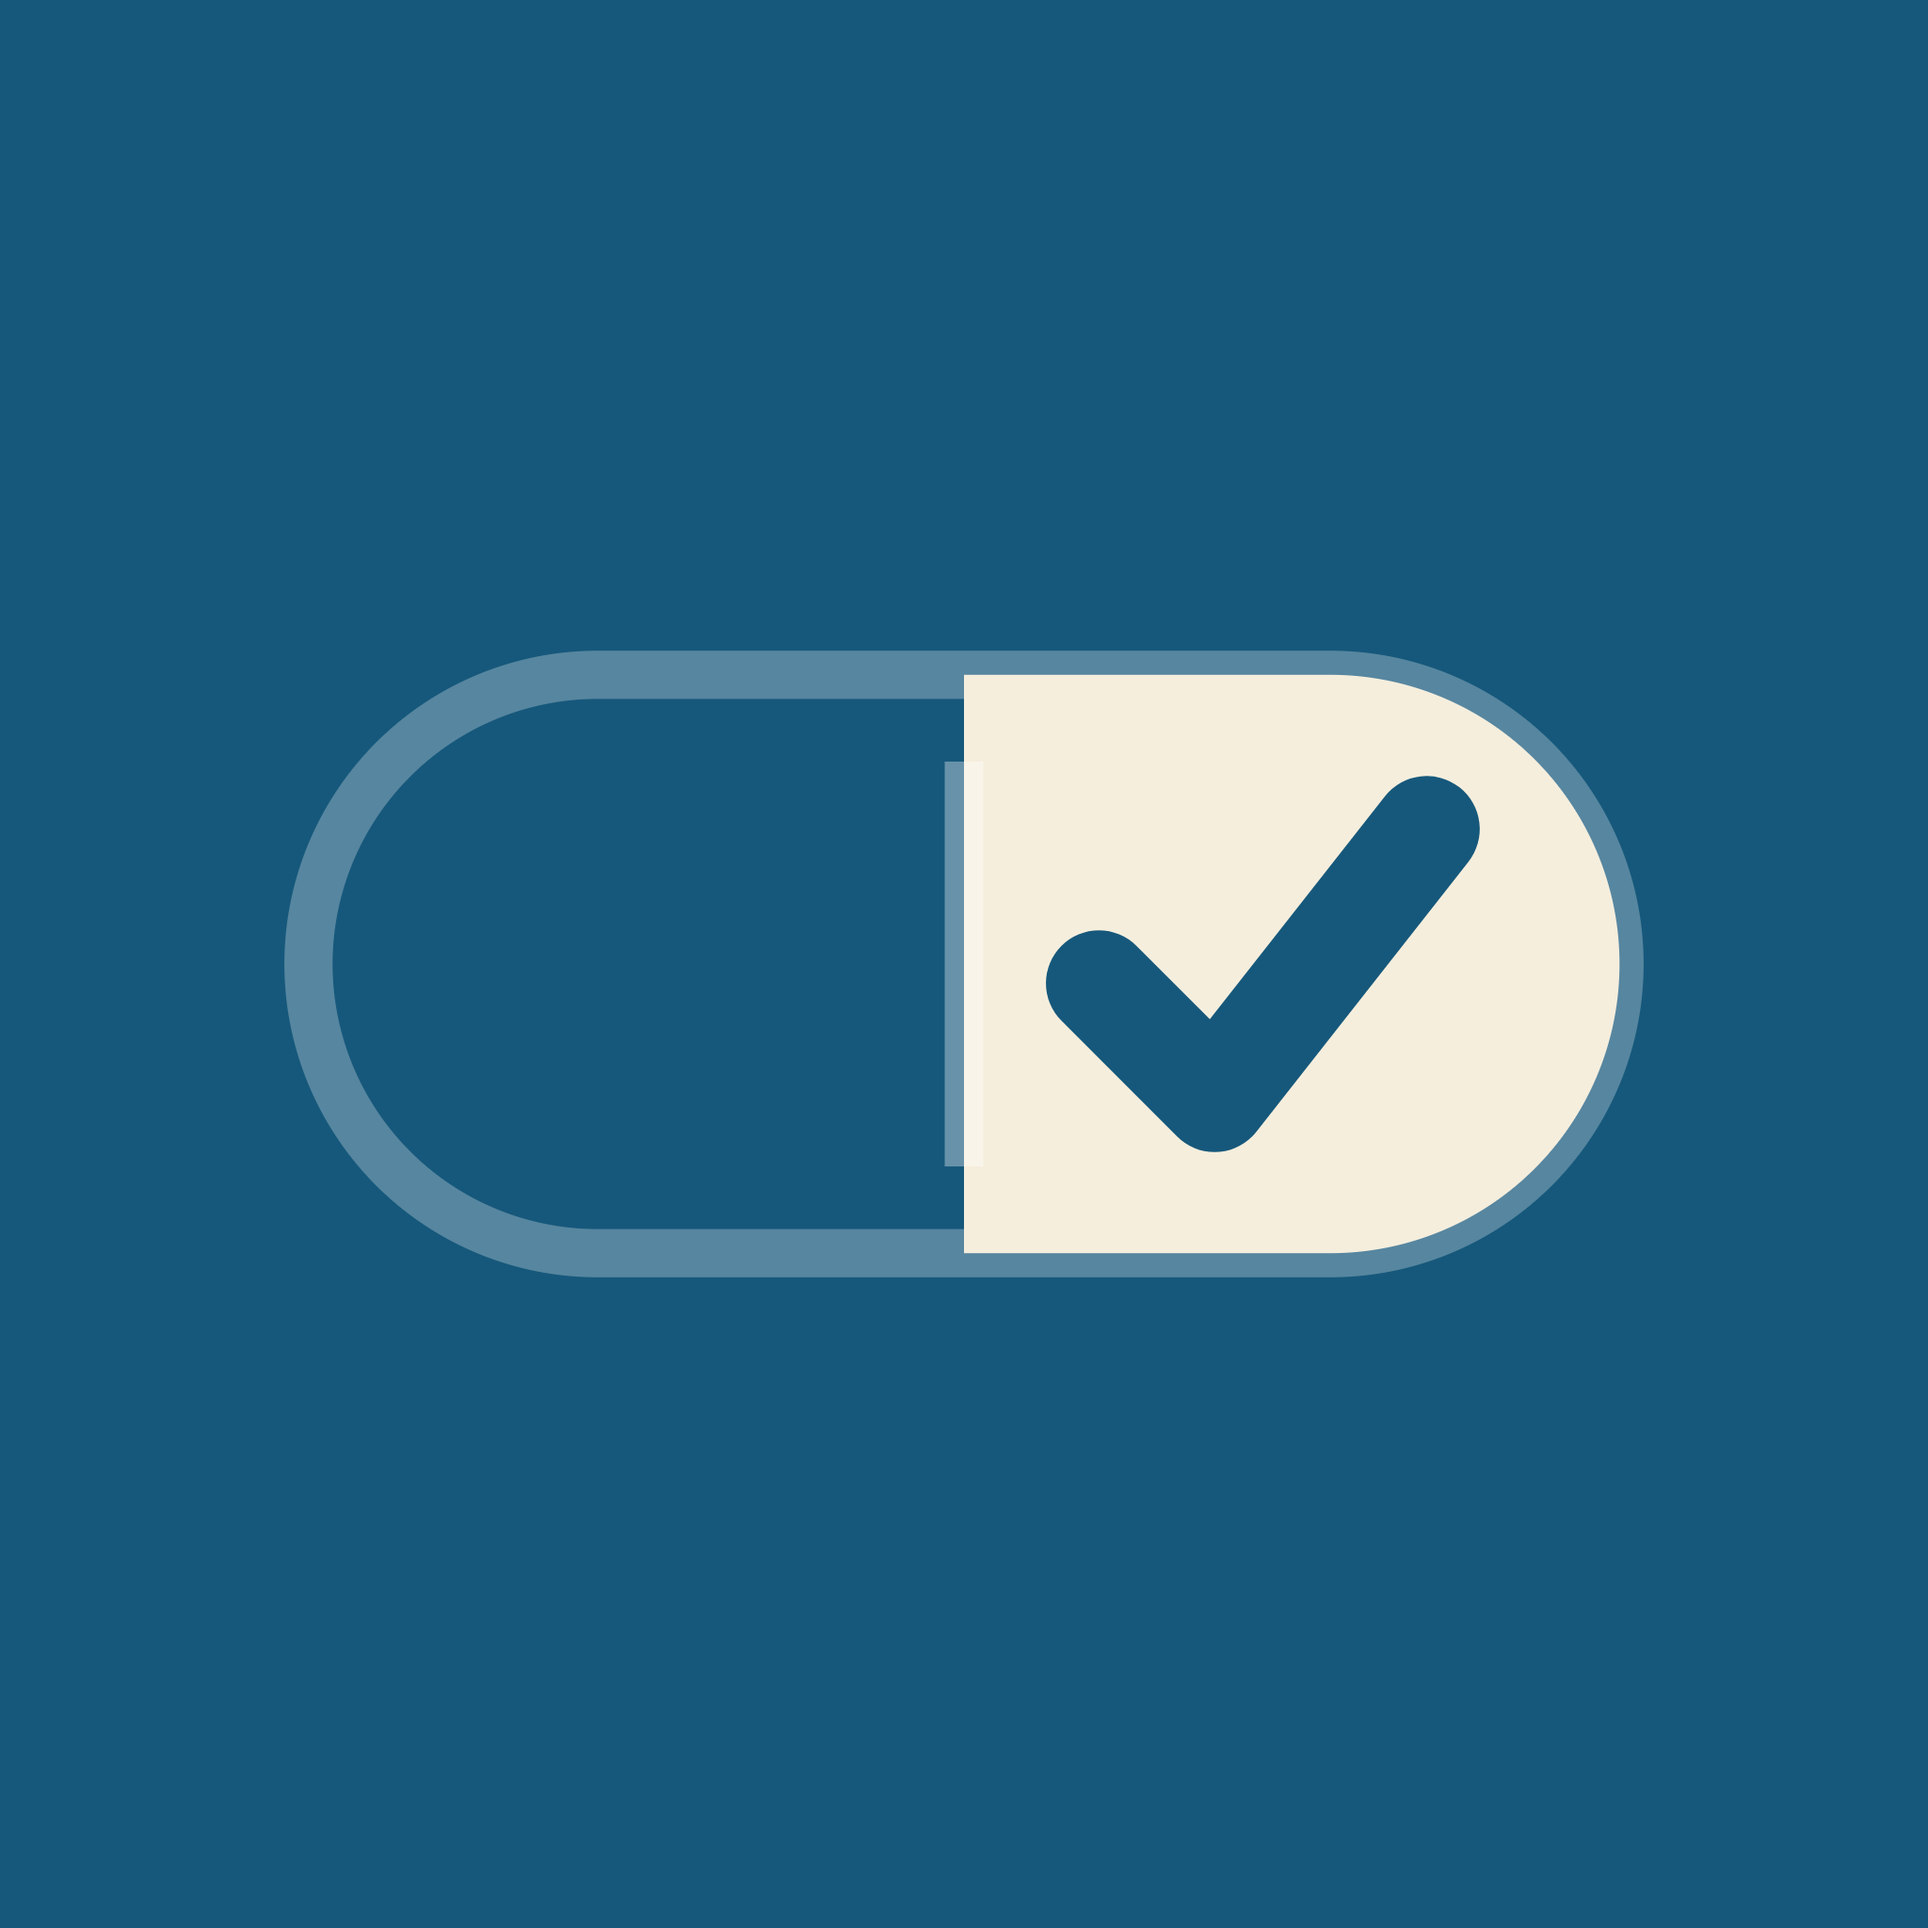
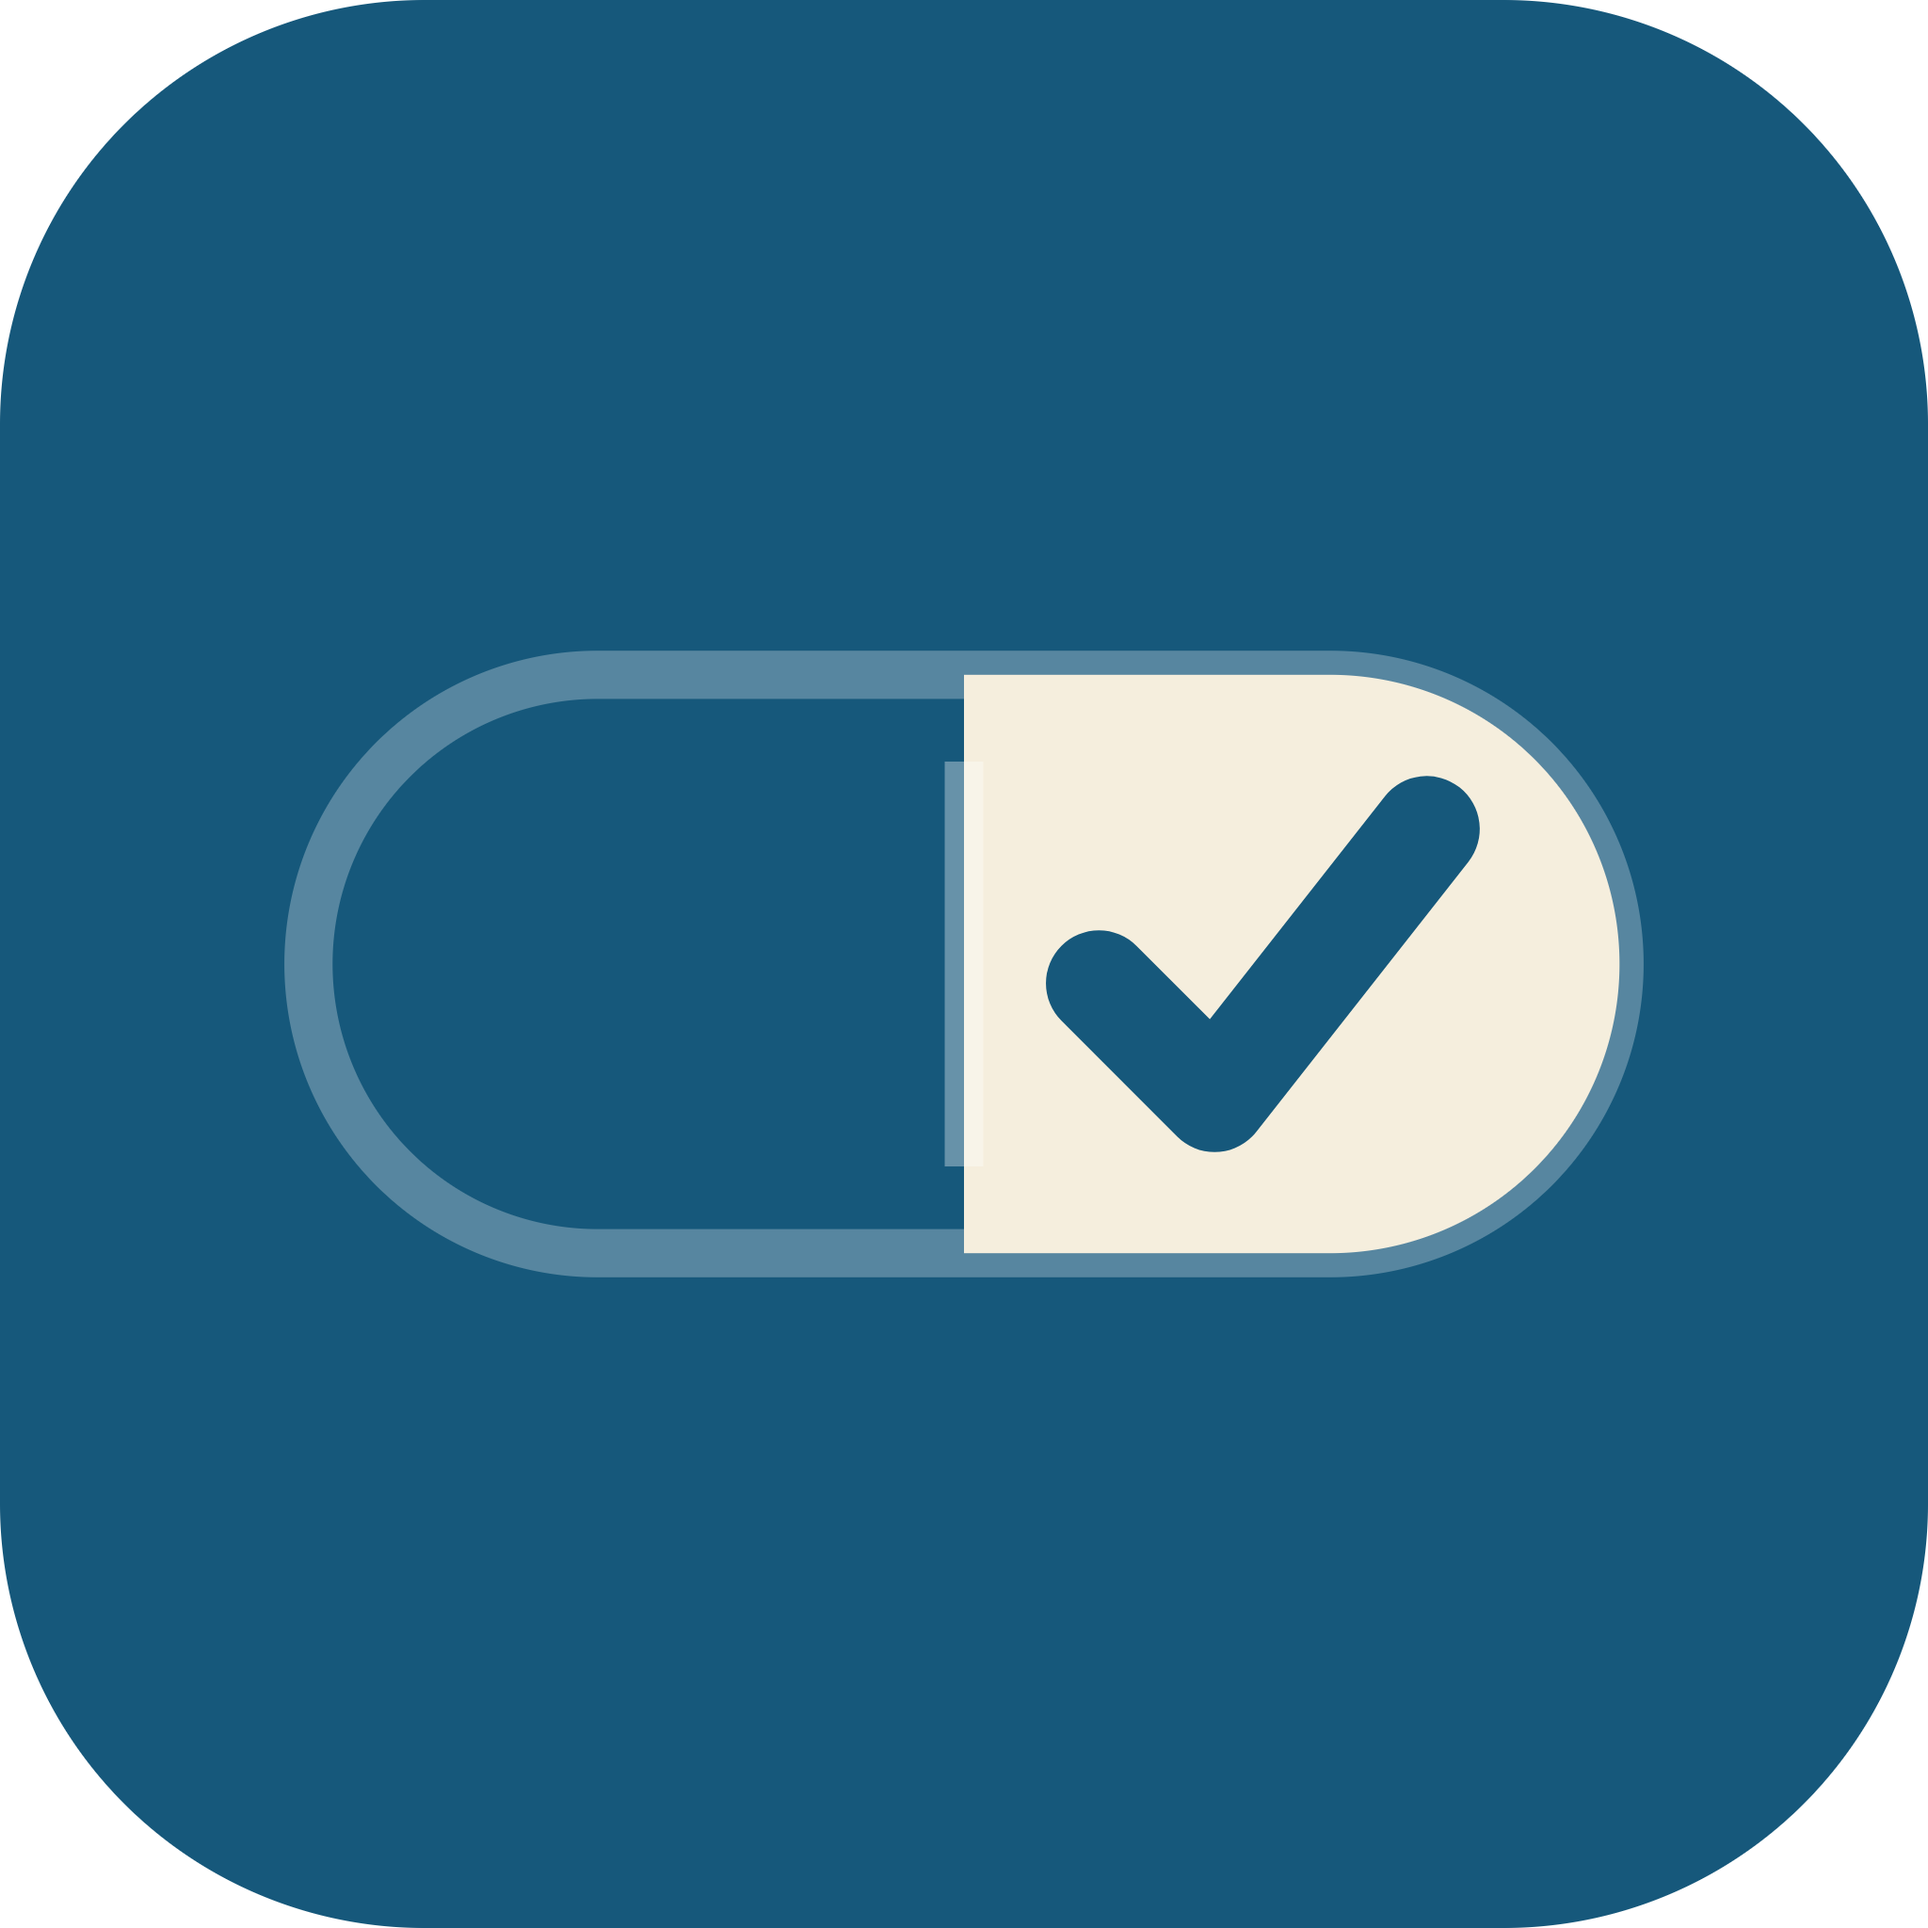
feat: improve branding and loading experience

diff --git a/app/loading.tsx b/app/loading.tsx
@@ -1,3 +1,31 @@
 export default function Loading() {
-  return <main className="min-h-screen bg-[#f6f8fb] p-8"><div className="mx-auto max-w-6xl animate-pulse space-y-6"><div className="h-12 w-64 rounded-xl bg-white" /><div className="grid gap-4 md:grid-cols-3"><div className="h-24 rounded-2xl bg-white" /><div className="h-24 rounded-2xl bg-white" /><div className="h-24 rounded-2xl bg-white" /></div><div className="h-96 rounded-2xl bg-white" /></div></main>
+  return (
+    <main
+      className="flex min-h-screen flex-col items-center justify-center bg-[#f6f8fb] px-4 dark:bg-[#0d2230]"
+      role="status"
+      aria-live="polite"
+      aria-label="Loading MediTrack"
+    >
+      <div className="flex flex-col items-center space-y-6">
+        {/* Standalone Brand Icon Mark with subtle pulse/fade scale */}
+        <div className="relative h-16 w-16 animate-pulse motion-reduce:animate-none">
+          <img
+            src="/branding/meditrack-icon.png"
+            alt="MediTrack Icon"
+            className="h-full w-full object-contain"
+          />
+        </div>
+
+        {/* Minimal loading indicator bar/spinner */}
+        <div className="flex items-center space-y-2 flex-col">
+          <div className="h-1 w-24 overflow-hidden rounded-full bg-[#e3e9ef] dark:bg-[#1a384e]">
+            <div className="h-full w-12 animate-loading-bar rounded-full bg-[#1e7b8c] dark:bg-[#84B3CE] motion-reduce:animate-none" />
+          </div>
+          <span className="text-[11px] font-semibold tracking-wider uppercase text-[#8b98aa] dark:text-[#a8c4d3]">
+            Loading Care Plan
+          </span>
+        </div>
+      </div>
+    </main>
+  )
 }

diff --git a/app/layout.tsx b/app/layout.tsx
@@ -47,6 +47,23 @@ export default function RootLayout({
 }>) {
   return (
     <html lang="en" suppressHydrationWarning>
+      <head>
+        <script
+          dangerouslySetInnerHTML={{
+            __html: `(function() {
+              try {
+                const saved = localStorage.getItem('meditrack-theme') || 'system';
+                const prefersDark = window.matchMedia('(prefers-color-scheme: dark)').matches;
+                const isDark = saved === 'dark' || (saved === 'system' && prefersDark);
+                document.documentElement.classList.toggle('dark', isDark);
+                if (saved !== 'system') {
+                  document.documentElement.classList.toggle('light', saved === 'light');
+                }
+              } catch (e) {}
+            })()`,
+          }}
+        />
+      </head>
       <body className="antialiased">
         <ThemeProvider>{children}</ThemeProvider>
         {process.env.NODE_ENV === 'production' && <Analytics />}

diff --git a/app/globals.css b/app/globals.css
@@ -170,3 +170,19 @@
     transition-duration: 0.01ms !important;
   }
 }
+
+@keyframes loading-bar {
+  0% {
+    transform: translateX(-100%);
+  }
+  50% {
+    transform: translateX(100%);
+  }
+  100% {
+    transform: translateX(200%);
+  }
+}
+
+.animate-loading-bar {
+  animation: loading-bar 1.2s infinite ease-in-out;
+}
